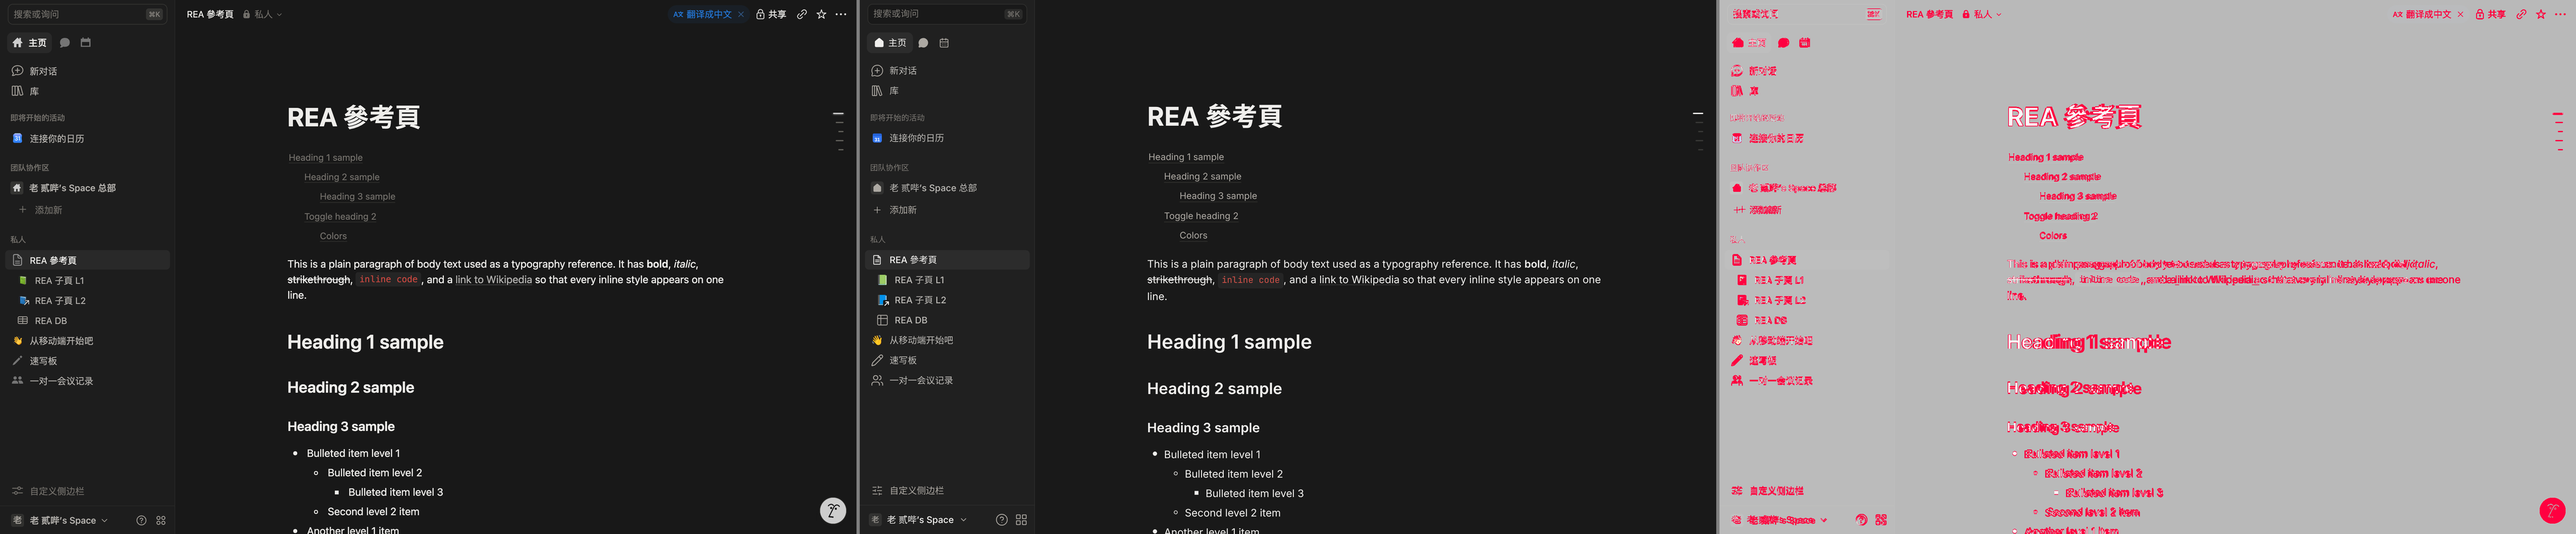
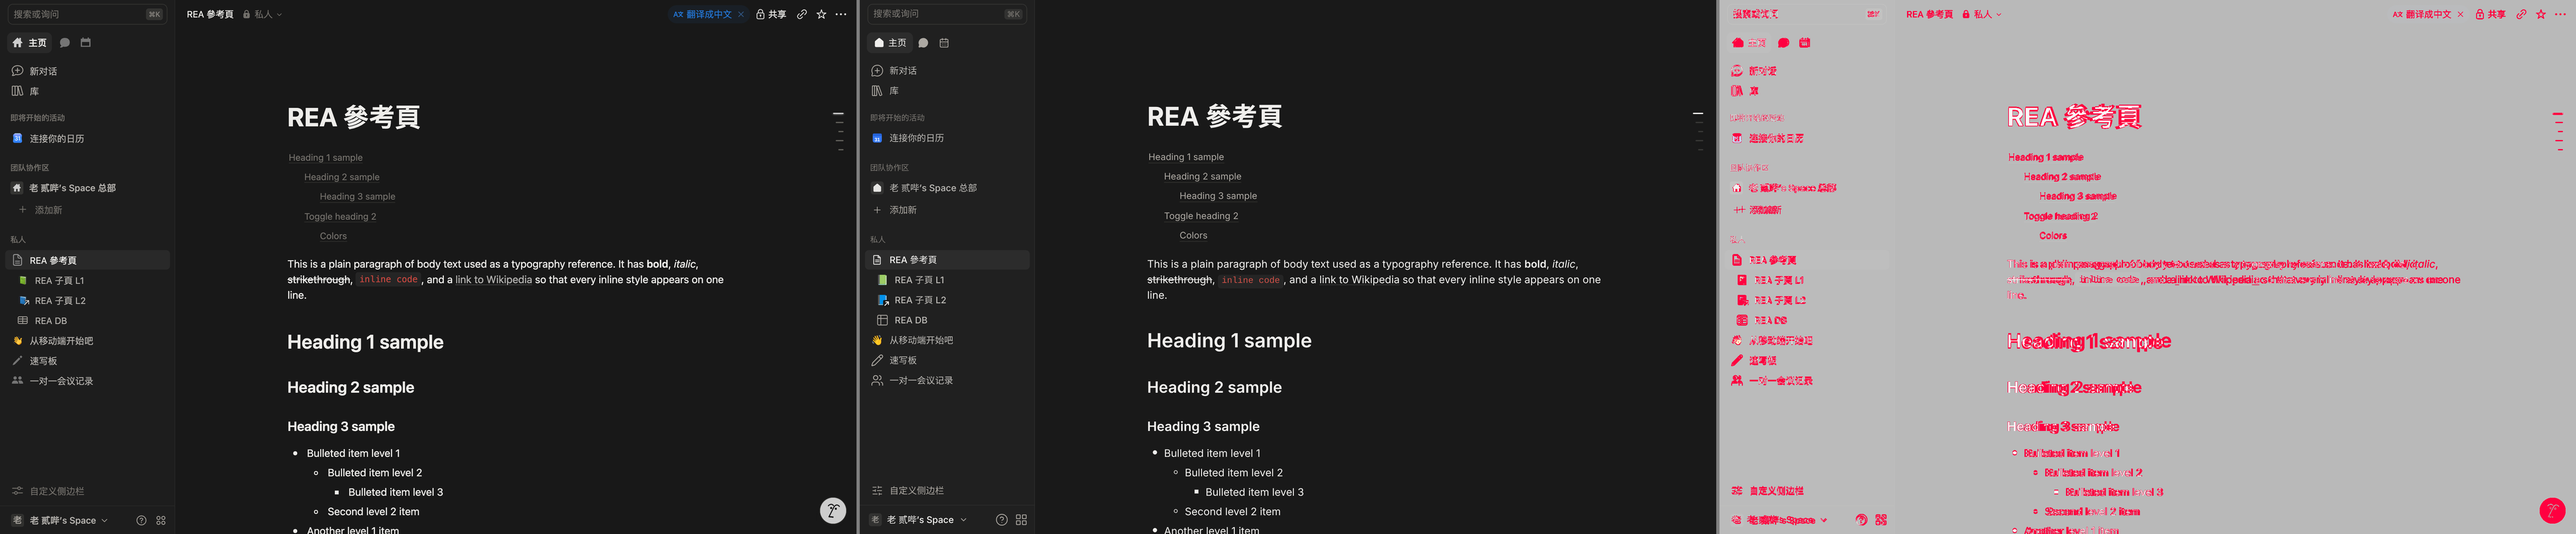
parity: toggle triangle, table padding, bookmark thumb, breadcrumb scope chip, sidebar search bg

diff --git a/packages/app/src/styles/app.css b/packages/app/src/styles/app.css
@@ -39,7 +39,7 @@ button { font: inherit; color: inherit; }
   display: flex; align-items: center; height: 32px; padding: 0 6px 0 8px;
   border: 1px solid var(--ink-border-primary-translucent); border-radius: 8px;
   font-size: 14px; line-height: 16.8px; font-weight: 400; color: var(--ink-text-tertiary);
-  background: var(--ink-background-primary);
+  background: transparent;
 }
 .ink-sb-search:hover { background: var(--ink-background-interactive); }
 .ink-sb-search-text { flex: 1; white-space: nowrap; overflow: hidden; }
@@ -85,7 +85,7 @@ button { font: inherit; color: inherit; }
 .ink-sb-section-title { flex: 1; font-size: 12px; line-height: 16px; font-weight: 500; color: var(--ink-text-tertiary); }
 .ink-sb-addnew { margin-top: 3px; }
 .ink-sb-empty { height: 30px; display: flex; align-items: center; font-size: 14px; color: var(--ink-text-tertiary); font-weight: 400; }
-.ink-team-icon { width: 20px; height: 20px; border-radius: 4px; display: flex; align-items: center; justify-content: center; background: var(--ink-background-tertiary-translucent); color: var(--ink-icon-secondary); }
+.ink-team-icon { width: 20px; height: 20px; border-radius: 4px; display: flex; align-items: center; justify-content: center; background: var(--ink-background-tertiary-translucent); color: var(--ink-icon-primary); }
 .ink-cal-badge { display: flex; }
 .ink-sb-bottom { flex: none; padding: 8px 8px 0; }
 .ink-sb-customize { margin-bottom: 7px; }
@@ -250,8 +250,8 @@ html.is-harness .ink-code-text { font-family: "JetBrains Mono", "Liberation Mono
 .ink-column { position: relative; min-width: 0; flex: none; }
 .ink-column-resizer { position: absolute; top: 0; bottom: 0; right: -27px; width: 8px; cursor: col-resize; }
 .ink-column > .ink-children > .ink-block { padding-left: 6px; padding-right: 6px; }
-.ink-image-frame { position: relative; overflow: hidden; border-radius: 10px; }
-.ink-image-frame img { position: absolute; inset: 0; width: 100%; height: 100%; object-fit: cover; }
+.ink-image-frame { position: relative; border-radius: 10px; }
+.ink-image-frame img { position: absolute; inset: 0; width: 100%; height: 100%; object-fit: cover; border-radius: 2px; }
 .ink-caption { font-size: 14px; line-height: 21px; color: var(--ink-text-secondary); padding: 6px 2px 0; }
 .ink-video-frame { position: relative; border-radius: 10px; overflow: hidden; background: #191919; }
 .ink-video-inner { position: absolute; inset: 0; display: flex; flex-direction: column; align-items: center; justify-content: center; gap: 12px; color: #fff; }
@@ -264,9 +264,9 @@ html.is-harness .ink-code-text { font-family: "JetBrains Mono", "Liberation Mono
 .ink-bookmark-desc { font-size: 12px; line-height: 16px; color: var(--ink-text-secondary); height: 32px; overflow: hidden; }
 .ink-bookmark-url { display: flex; gap: 6px; align-items: center; font-size: 12px; line-height: 16px; margin-top: 6px; white-space: nowrap; overflow: hidden; }
 .ink-bookmark-img { flex: 1 1 180px; position: relative; }
-.ink-bookmark-img img { position: absolute; inset: 0; width: 100%; height: 100%; object-fit: cover; }
+.ink-bookmark-img img { position: absolute; inset: 0; width: 100%; height: 100%; object-fit: cover; border-radius: 2px; }
 .ink-media-ph { display: flex; align-items: center; gap: 12px; padding: 12px 36px 12px 12px; border-radius: 6px; background: var(--ink-background-tertiary-translucent); color: var(--ink-text-secondary); font-size: 14px; }
-.ink-table-wrap { position: relative; padding: 8.5px 0 24.5px; }
+.ink-table-wrap { position: relative; padding: 8px 0 24px; }
 .ink-table-scroll { position: relative; padding-left: 6.5px; overflow-x: auto; display: flex; }
 .ink-table { border-collapse: collapse; table-layout: fixed; }
 .ink-table td, .ink-table th { border: 1px solid var(--ink-border-primary); padding: 0; vertical-align: top; text-align: left; font-weight: 400; min-height: 32px; }
@@ -280,6 +280,8 @@ html.is-harness .ink-code-text { font-family: "JetBrains Mono", "Liberation Mono
 .ink-toc-item:hover { background: var(--ink-state-hover); }
 .ink-toc-empty { color: var(--ink-text-tertiary); font-size: 14px; padding: 6px 2px; }
 .ink-crumbs-block { display: flex; align-items: center; flex-wrap: wrap; height: 28px; }
+.ink-crumbs-scope { display: flex; align-items: center; gap: 4px; height: 24px; padding: 0 6px; border-radius: 6px; font-size: 14px; line-height: 16.8px; color: var(--ink-text-secondary); cursor: pointer; }
+.ink-crumbs-scope:hover { background: var(--ink-button-hovered-background); }
 .ink-crumbs-item-wrap { display: flex; align-items: center; }
 .ink-crumbs-item { display: flex; align-items: center; gap: 6px; height: 28px; padding: 2px 6px; border-radius: 6px; line-height: 19.2px; cursor: pointer; }
 .ink-crumbs-item:hover { background: var(--ink-button-hovered-background); }

diff --git a/packages/app/src/editor/Blocks.tsx b/packages/app/src/editor/Blocks.tsx
@@ -119,7 +119,7 @@ function numberLabel(n: number, depth: number) {
 function Triangle({ open, onClick, big }: { open: boolean; onClick: () => void; big?: boolean }) {
   return (
     <div role="button" aria-expanded={open} className={'ink-triangle' + (open ? ' is-open' : '') + (big ? ' is-big' : '')} onMouseDown={(e) => e.preventDefault()} onClick={onClick}>
-      <svg viewBox="0 0 12 12" width="12" height="12" aria-hidden><path d="M4.2 2.6 L9 6 L4.2 9.4 Z" fill="currentColor" /></svg>
+      <svg viewBox="0 0 12 12" width="12" height="12" aria-hidden><path d="M2.25 1.75 L10.25 6 L2.25 10.25 Z" fill="currentColor" /></svg>
     </div>
   );
 }
@@ -194,7 +194,7 @@ function BlockBody({ b, ctx }: { b: Block; ctx: Ctx }) {
         <div className={'ink-callout' + (c ? ' ' + colorClass(c.endsWith('_background') ? c : c) : ' ink-callout-default')}>
           <div className="ink-callout-icon" contentEditable={false}>
             <div role="button" className="ink-callout-icon-btn" onMouseDown={(e) => e.preventDefault()} onClick={(e) => openEmojiPicker({ anchor: (e.currentTarget as HTMLElement).getBoundingClientRect(), onPick: (ch) => store.transact('icon', (tx) => tx.update(b.id, (x) => ({ format: { ...x.format, page_icon: ch } }))), onRemove: () => store.transact('icon', (tx) => tx.update(b.id, (x) => ({ format: { ...x.format, page_icon: undefined } }))) })}>
-              <PageIcon block={b} size={24} emojiSize={18} />
+              <PageIcon block={b} size={24} emojiSize={16} />
             </div>
           </div>
           <div className="ink-callout-body">
@@ -399,9 +399,12 @@ function BreadcrumbBlock({ b }: { b: Block }) {
       {path.map((p, i) => (
         <span key={p.id} className="ink-crumbs-item-wrap">
           {i > 0 && <span className="ink-crumbs-sep">/</span>}
-          <span role="link" className="ink-crumbs-item" onClick={() => navigate(p.id)}><PageIcon block={p} size={18} /><span>{pageTitle(p)}</span></span>
+          <span role="link" className="ink-crumbs-item" onClick={() => navigate(p.id)}>{(p.format?.page_icon || i > 0) && <PageIcon block={p} size={18} emojiSize={16} />}<span>{pageTitle(p)}</span></span>
         </span>
       ))}
+      {path[0] && store.space.privatePages.includes(path[0].id) && (
+        <span role="button" className="ink-crumbs-scope"><Icon name="lock" size={12} stroke={2} /><span>{t('top.private')}</span><Icon name="chevronDown" size={12} stroke={2} /></span>
+      )}
     </div>
   );
 }

diff --git a/packages/app/src/store/fixture.ts b/packages/app/src/store/fixture.ts
@@ -75,7 +75,7 @@ export function buildFixture(): FixtureData {
     mk('text', c.id, r(label));
   }
   mk('image', P, undefined, { props: { src: 'fixture://landscape' }, format: { image_aspect: 316.06 / 704 } });
-  mk('bookmark', P, undefined, { props: { url: 'https://www.wikipedia.org', bookmark: { title: 'Wikipedia, the free encyclopedia', description: 'Wikipedia is a free online encyclopedia, created and edited by volunteers around the world and hosted by the Wikimedia Foundation.', url: 'https://www.wikipedia.org' } } });
+  mk('bookmark', P, undefined, { props: { url: 'https://www.wikipedia.org', bookmark: { title: 'Wikipedia, the free encyclopedia', description: 'Wikipedia is a free online encyclopedia, created and edited by volunteers around the world and hosted by the Wikimedia Foundation.', url: 'https://www.wikipedia.org', image: 'fixture://cover-3' } } });
   mk('video', P, undefined, { props: { url: 'https://www.youtube.com/watch?v=aqz-KE-bpKQ' }, format: { image_aspect: 396.61 / 704 } });
   mk('breadcrumb', P);
   mk('sub_sub_header', P, r('Colors'));

diff --git a/docs/parity/geometry-light.md b/docs/parity/geometry-light.md
@@ -1,28 +1,28 @@
-### Geometry (light) — 53/67 within 1px
+### Geometry (light) — 65/67 within 1px
 
 | element | reference | ours | delta |
 |---|---|---|---|
 | sidebar | x=0 y=0 w=270 h=824 | x=0 y=0 w=270 h=824 | ✅ x+0 y+0 w+0 h+0 |
 | sidebar search | x=12 y=6 w=246 h=32 | x=12 y=6 w=246 h=32 | ✅ x+0 y+0 w+0 h+0 |
-| section header 0 | x=8 y=167 w=254 h=30 | x=8 y=171 w=254 h=30 | ❌ x+0 y+4 w+0 h+0 |
-| section header 1 | x=8 y=244 w=254 h=30 | x=8 y=248 w=254 h=30 | ❌ x+0 y+4 w+0 h+0 |
-| section header 2 | x=8 y=355 w=254 h=30 | x=8 y=359 w=254 h=30 | ❌ x+0 y+4 w+0 h+0 |
-| private row 0 | x=8 y=386 w=254 h=30 | x=8 y=390 w=254 h=30 | ❌ x+0 y+4 w+0 h+0 |
-| private row 1 | x=8 y=417 w=254 h=30 | x=8 y=421 w=254 h=30 | ❌ x+0 y+4 w+0 h+0 |
-| private row 2 | x=8 y=448 w=254 h=30 | x=8 y=452 w=254 h=30 | ❌ x+0 y+4 w+0 h+0 |
-| private row 3 | x=8 y=479 w=254 h=30 | x=8 y=483 w=254 h=30 | ❌ x+0 y+4 w+0 h+0 |
-| private row 4 | x=8 y=510 w=254 h=30 | x=8 y=514 w=254 h=30 | ❌ x+0 y+4 w+0 h+0 |
-| private row 5 | x=8 y=541 w=254 h=30 | x=8 y=545 w=254 h=30 | ❌ x+0 y+4 w+0 h+0 |
-| private row 6 | x=8 y=572 w=254 h=30 | x=8 y=576 w=254 h=30 | ❌ x+0 y+4 w+0 h+0 |
+| section header 0 | x=8 y=167 w=254 h=30 | x=8 y=167 w=254 h=30 | ✅ x+0 y+0 w+0 h+0 |
+| section header 1 | x=8 y=244 w=254 h=30 | x=8 y=244 w=254 h=30 | ✅ x+0 y+0 w+0 h+0 |
+| section header 2 | x=8 y=355 w=254 h=30 | x=8 y=355 w=254 h=30 | ✅ x+0 y+0 w+0 h+0 |
+| private row 0 | x=8 y=386 w=254 h=30 | x=8 y=386 w=254 h=30 | ✅ x+0 y+0 w+0 h+0 |
+| private row 1 | x=8 y=417 w=254 h=30 | x=8 y=417 w=254 h=30 | ✅ x+0 y+0 w+0 h+0 |
+| private row 2 | x=8 y=448 w=254 h=30 | x=8 y=448 w=254 h=30 | ✅ x+0 y+0 w+0 h+0 |
+| private row 3 | x=8 y=479 w=254 h=30 | x=8 y=479 w=254 h=30 | ✅ x+0 y+0 w+0 h+0 |
+| private row 4 | x=8 y=510 w=254 h=30 | x=8 y=510 w=254 h=30 | ✅ x+0 y+0 w+0 h+0 |
+| private row 5 | x=8 y=541 w=254 h=30 | x=8 y=541 w=254 h=30 | ✅ x+0 y+0 w+0 h+0 |
+| private row 6 | x=8 y=572 w=254 h=30 | x=8 y=572 w=254 h=30 | ✅ x+0 y+0 w+0 h+0 |
 | workspace switcher | x=8 y=788.5 w=194 h=28 | x=8 y=788 w=194 h=28 | ✅ x+0 y-0.5 w+0 h+0 |
 | topbar | x=270 y=0 w=1050 h=44 | x=270 y=0 w=1050 h=44 | ✅ x+0 y+0 w+0 h+0 |
 | breadcrumb 0 | x=282 y=10 w=84.27 h=24 | x=282 y=10 w=85.03 h=24 | ✅ x+0 y+0 w+0.76 h+0 |
-| share button | x=1157.95 y=8 w=62.05 h=28 | x=1156 y=8 w=64 h=28 | ❌ x-1.95 y+0 w+1.95 h+0 |
+| share button | x=1157.95 y=8 w=62.05 h=28 | x=1158 y=8 w=62 h=28 | ✅ x+0.05 y+0 w-0.05 h+0 |
 | page ··· button | x=1282 y=8 w=28 h=28 | x=1282 y=8 w=28 h=28 | ✅ x+0 y+0 w+0 h+0 |
 | page title | x=435 y=156 w=720 h=48 | x=435 y=156 w=720 h=48 | ✅ x+0 y+0 w+0 h+0 |
-| page content | x=435 y=212 w=720 h=0 | x=345 y=212 w=900 h=0 | ❌ x-90 y+0 w+180 h+0 |
-| text block | w=720 h=88 dx=0 dy=0 | w=720 h=89 dx=0 dy=0 | ✅ w+0 h+1 dx+0 dy+0 |
-| text inner | w=708 h=76 dx=6 dy=6 | w=708 h=77 dx=6 dy=6 | ✅ w+0 h+1 dx+0 dy+0 |
+| page content | x=435 y=212 w=720 h=0 | x=435 y=212 w=720 h=0 | ✅ x+0 y+0 w+0 h+0 |
+| text block | w=720 h=88 dx=0 dy=0 | w=720 h=88 dx=0 dy=0 | ✅ w+0 h+0 dx+0 dy+0 |
+| text inner | w=708 h=76 dx=6 dy=6 | w=708 h=76 dx=6 dy=6 | ✅ w+0 h+0 dx+0 dy+0 |
 | header block | w=720 h=79 dx=0 dy=0 | w=720 h=79 dx=0 dy=0 | ✅ w+0 h+0 dx+0 dy+0 |
 | header inner | w=708 h=43 dx=6 dy=30 | w=708 h=43 dx=6 dy=30 | ✅ w+0 h+0 dx+0 dy+0 |
 | sub_header block | w=720 h=67.19 dx=0 dy=0 | w=720 h=67.2 dx=0 dy=0 | ✅ w+0 h+0.01 dx+0 dy+0 |
@@ -45,8 +45,8 @@
 | code inner | w=704 h=194.34 dx=8 dy=8 | w=704 h=194.44 dx=8 dy=8 | ✅ w+0 h+0.1 dx+0 dy+0 |
 | divider block | w=720 h=13 dx=0 dy=0 | w=720 h=13 dx=0 dy=0 | ✅ w+0 h+0 dx+0 dy+0 |
 | divider inner | w=704 h=1 dx=8 dy=6 | w=704 h=1 dx=8 dy=6 | ✅ w+0 h+0 dx+0 dy+0 |
-| table block | w=1050 h=189 dx=0 dy=0 | w=720 h=190 dx=0 dy=0 | ❌ w-330 h+1 dx+0 dy+0 |
-| table inner | w=120 h=35 dx=179.5 dy=16.5 | w=120 h=35 dx=15 dy=17 | ❌ w+0 h+0 dx-164.5 dy+0.5 |
+| table block | w=1050 h=189 dx=0 dy=0 | w=720 h=189 dx=0 dy=0 | ❌ w-330 h+0 dx+0 dy+0 |
+| table inner | w=120 h=35 dx=179.5 dy=16.5 | w=120 h=35 dx=15 dy=16.5 | ❌ w+0 h+0 dx-164.5 dy+0 |
 | image block | w=720 h=332.06 dx=0 dy=0 | w=720 h=332.05 dx=0 dy=0 | ✅ w+0 h-0.01 dx+0 dy+0 |
 | image inner | w=704 h=316.06 dx=8 dy=8 | w=704 h=316.05 dx=8 dy=8 | ✅ w+0 h-0.01 dx+0 dy+0 |
 | bookmark block | w=720 h=124 dx=0 dy=0 | w=720 h=124 dx=0 dy=0 | ✅ w+0 h+0 dx+0 dy+0 |
